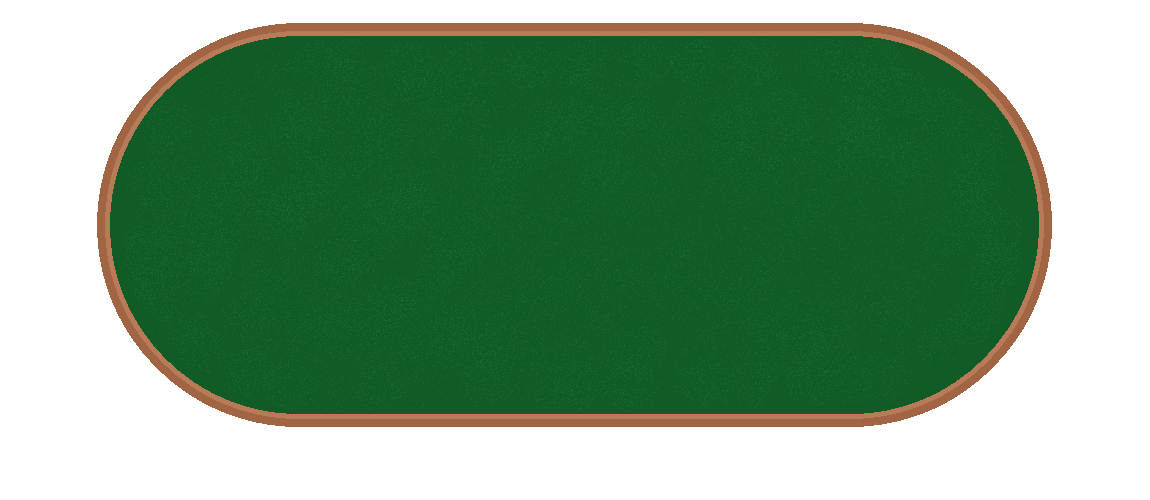
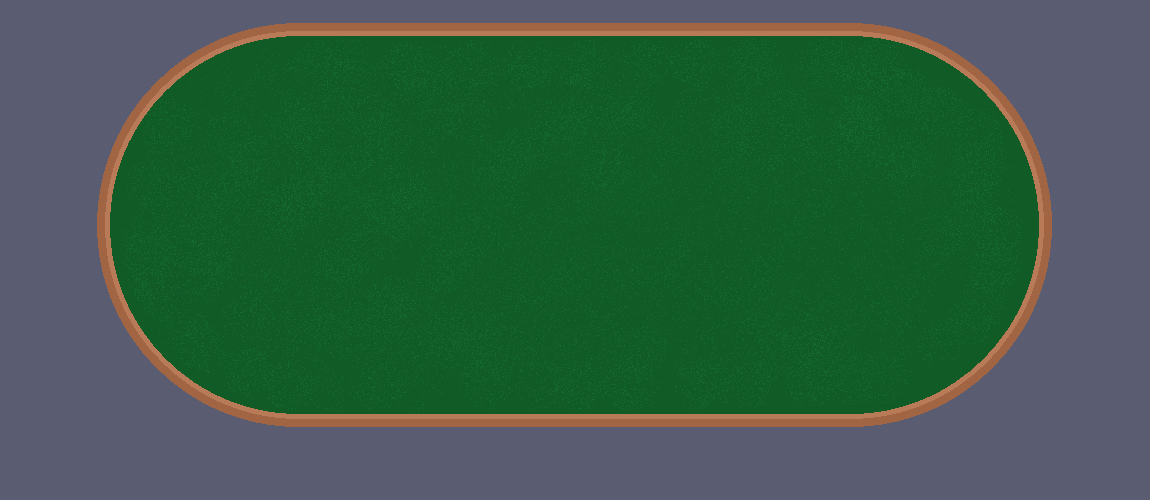
css styles of controls and panes

diff --git a/code/src/main/resources/css/style.css b/code/src/main/resources/css/style.css
@@ -1,0 +1,53 @@
+#menuPane {
+    -fx-background-color: #31323e;
+}
+
+#backgroundPane {
+    -fx-background-color: #5a5c72;
+}
+
+#button-modi {
+    -fx-padding: 8 12 12 12;
+    -fx-background-insets: 0,0 0 3 0, 0 0 4 0, 0 0 5 0;
+    -fx-background-radius: 5;
+    -fx-background-color:
+        linear-gradient(from 0% 93% to 0% 100%, #a34313 0%, #903b12 100%),
+        #9d4024,
+        #d86e3a,
+        radial-gradient(center 50% 50%, radius 100%, #d86e3a, #c54e2c);
+    -fx-effect: dropshadow( gaussian , rgba(0,0,0,0.75) , 4,0,0,1 );
+    -fx-font-weight: bold;
+    -fx-font-size: 1.1em;
+}
+#button-modi:hover {
+    -fx-background-color:
+        linear-gradient(from 0% 93% to 0% 100%, #a34313 0%, #903b12 100%),
+        #9d4024,
+        #d86e3a,
+        radial-gradient(center 50% 50%, radius 100%, #ea7f4b, #c54e2c);
+}
+#button-modi:pressed {
+    -fx-padding: 10 12 10 12;
+    -fx-background-insets: 2 0 0 0,2 0 1 0, 2 0 2 0, 2 0 3 0;
+}
+#button-modi Text {
+    -fx-fill: white;
+    -fx-effect: dropshadow( gaussian , #a30000 , 0,0,0,2 );
+}
+
+.text-field {
+    -fx-background-color: white;
+    -fx-border-color : #D7D6DC;
+    -fx-background-insets: -0.2, 1, -1.4, 3;
+    -fx-background-radius: 0;
+    -fx-padding: 4 7 4 15 ;
+    -fx-prompt-text-fill: derive(-fx-control-inner-background,-30%);
+}
+
+.text-field:focused {
+    -fx-border-color : #D7D6DC;
+    -fx-background-color: white;
+    -fx-background-insets: -0.2, 1, -1.4, 3;
+    -fx-background-radius: 0;
+    -fx-padding: 4 7 4 15 ;
+}

diff --git a/code/src/main/java/poker/client/controller/GameMenuController.java b/code/src/main/java/poker/client/controller/GameMenuController.java
@@ -1,6 +1,8 @@
 package poker.client.controller;
 
 import javafx.application.Platform;
+import javafx.beans.value.ChangeListener;
+import javafx.beans.value.ObservableValue;
 import javafx.fxml.FXML;
 import javafx.fxml.FXMLLoader;
 import javafx.scene.Scene;
@@ -9,6 +11,7 @@ import javafx.scene.control.Alert;
 import javafx.scene.control.Button;
 import javafx.scene.control.Slider;
 import javafx.scene.layout.Pane;
+import javafx.scene.layout.StackPane;
 import javafx.scene.text.Text;
 import javafx.stage.Stage;
 import poker.client.communication.MsgFormats;
